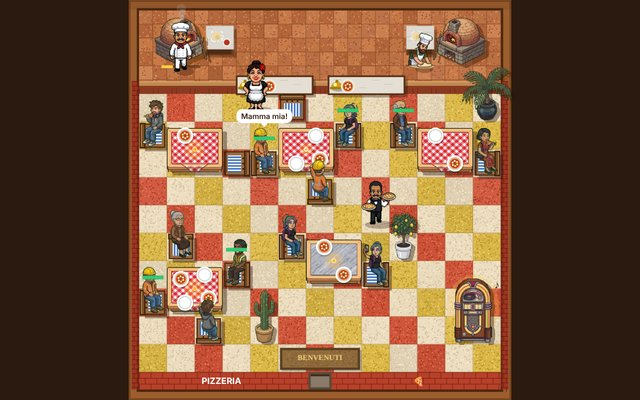
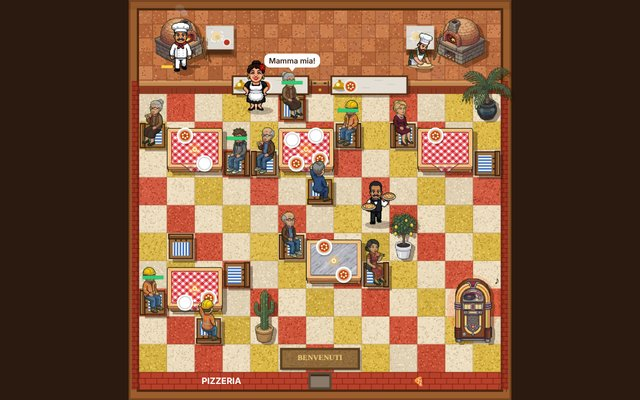
Pizzabaas: manager (Kevin, Sandra, Signor Bruno), met manager overdag de stad in
Claude-Session: https://claude.ai/code/session_01A1NZDKEqH4AvFTuhgNYDbP

diff --git a/pizzabaas.html b/pizzabaas.html
@@ -62,7 +62,7 @@
   .bedragen button.aan { background: #2e9d52; color: #fff; border-color: #2e9d52; }
   .teken { display: flex; gap: 8px; align-items: center; margin: 8px 0; font-size: 14px; }
   .teken input { width: 22px; height: 22px; }
-  #vraag { background: rgba(20,10,4,.45); }
+  #vraag { background: rgba(20,10,4,.45); z-index: 9; } /* ook boven de stad (de manager belt) */
   #vraagkaart { text-align: center; max-width: 400px; animation: plop .25s ease-out; }
   @keyframes plop { from { transform: scale(.7); opacity: 0; } }
   .vraagik { font-size: 54px; line-height: 1.1; }
@@ -437,6 +437,7 @@ let kies = null; // wat er gekocht en neergezet wordt
 function maakPersoneel() {
   obers = []; for (let i = 0; i < S.obers; i++) { const hx = W / 2 + [-1.6, 1.6, -2.6][i]; obers.push({ dame: i == 1, x: hx, y: KEUKEN + 0.5, thuis: [hx, KEUKEN + 0.5], taak: null, draagt: null }); } // niet voor het klapluik
   ovens = []; for (let i = 0; i < S.ovens; i++) ovens.push(maakOven(i));
+  maakManager();
 }
 // max. twee ovens, elk met een eigen kok: oven 0 links (Mario, de kok), oven 1 rechts (Beppe, de bebaarde bakker). De kok maakt het
 // deeg aan de werkbank naast zijn oven, schuift de pizza in de oven en zet hem als hij klaar is op het uitgiftepunt in het midden
@@ -574,20 +575,25 @@ function openDeuren() {
   const fd = feestdag(); vandaag.aankomst *= DRUKTE[weekdag()] * (fd ? fd.aankomst : 1); vandaag.kaars = fd && fd.kaars;
   if (laatsteVanDeMaand() && S.belasting > 0) vraagTijden.push(-1); // de inspecteur komt vandaag (een vraag met voorrang)
   setTimeout(() => meld(fd ? fd.tekst : ['Maandag: rustig dagje.', '', '', '', 'Vrijdagavond: het wordt druk!', 'Zaterdagavond: de drukste avond van de week!', 'Zondag: gezinnen en opa\'s en oma\'s.'][weekdag()] || ''), 300);
-  maakPersoneel(); kies = null; sluitMenu(); tekenKnoppen();
+  maakPersoneel(); kies = null; sluitMenu(); tekenKnoppen(); wegLog = [];
+  if (S.manager && MANAGER[S.manager.wie].fooi) vandaag.fooi *= MANAGER[S.manager.wie].fooi; // Bruno: de klanten zijn dol op hem
   ding(660, 0.12); setTimeout(() => ding(880, 0.12), 140);
 }
 function eindeDag() {
   modus = 'inrichten';
-  const lonen = (S.obers - 1) * LOON, totaal = tel.omzet + tel.fooi - tel.kosten - HUUR - lonen;
-  S.geld += -HUUR - lonen - (tel.ing || 0); maakPersoneel(); // omzet en fooi zijn al verrekend; de inkoop (tel.ing) nu pas
+  const manLoon = MANLOON(), lonen = (S.obers - 1) * LOON + manLoon, totaal = tel.omzet + tel.fooi - tel.kosten - HUUR - lonen;
+  S.geld += -HUUR - lonen - (tel.ing || 0);
+  let manWeg = ''; if (S.manager) { const M = MANAGER[S.manager.wie]; S.manager.dagen = (S.manager.dagen || 0) + 1;
+    if (S.geld < 0) { manWeg = `${M.n} is ontslag genomen: "Geen loon, geen ${M.n.split(' ').pop()}."`; S.manager = null; }
+    else if (S.manager.wie == 'bruno' && S.manager.dagen % 5 == 4) S.verplicht = [...(S.verplicht || []), 'opslag']; } // Bruno wil opslag
+  maakPersoneel(); // omzet en fooi zijn al verrekend; de inkoop (tel.ing) nu pas
   S.omzetGisteren = tel.omzet; const lening = [...aflossen(), ...belastingAvond(totaal)];
   const rommel = vlekken.length; S.vuil = (S.vuil || 0) + rommel * 0.5; vlekken = []; // wat er blijft liggen maakt de zaak viezer (keuringsdienst!)
   const top = Object.entries(tel.verkocht).sort((a, b) => b[1] - a[1])[0];
   const soorten = Object.entries(tel.soort).map(([k, [n, o]]) => `<span title="${esc(SOORT[k].n)}">${SOORT[k].ik}${GEZICHT[Math.round(o / n)]}</span>`).join(' ');
   const oud = S.dag; S.dag++; bewaar();
   $('eindkaart').innerHTML = `<h1>${datumLang(oud)} zit erop!</h1>
-    ${tel.dicht ? `<p><b>🔒 Vandaag was de zaak dicht.</b> ${esc(tel.dicht)}</p>` : ''}
+    ${tel.dicht ? `<p><b>🔒 Vandaag was de zaak dicht.</b> ${esc(tel.dicht)}</p>` : ''}${manWeg ? `<p><b>👋 ${esc(manWeg)}</b></p>` : ''}
     <table>
       <tr><td>😋 Tevreden klanten</td><td>${kl(tel.blij)}</td></tr>
       <tr><td>😡 Boos weggelopen</td><td>${kl(tel.boos)}</td></tr>
@@ -602,7 +608,7 @@ function eindeDag() {
       <tr><td>🪙 Fooi</td><td>€ ${Math.round(tel.fooi)}</td></tr>
       <tr><td>🧀 Ingrediënten (groothandel)</td><td>− € ${Math.round(tel.ing || 0)}</td></tr>${tel.kosten - (tel.ing || 0) >= 1 ? `<tr><td>🧾 Andere kosten</td><td>− € ${Math.round(tel.kosten - (tel.ing || 0))}</td></tr>` : ''}
       <tr><td>🏠 Huur</td><td>− € ${HUUR}</td></tr>
-      ${lonen ? `<tr><td>🤵 Loon extra obers</td><td>− € ${lonen}</td></tr>` : ''}
+      ${lonen - manLoon ? `<tr><td>🤵 Loon extra obers</td><td>− € ${lonen - manLoon}</td></tr>` : ''}${manLoon ? `<tr><td>📋 Loon manager</td><td>− € ${manLoon}</td></tr>` : ''}
       <tr><td><b>Verdiend vandaag</b></td><td>${totaal >= 0 ? '' : '− '}€ ${Math.abs(Math.round(totaal))}</td></tr>
       ${lening.map(([t, v]) => `<tr><td>${esc(t)}</td><td>${v ? '− € ' + -v : ''}</td></tr>`).join('')}
     </table>
@@ -862,6 +868,11 @@ const VRAGEN = [
     a: [['Die is van Beppe! Teruggeven.', () => { rep(1); return 'Beppe is zo blij dat hij de hele avond zingt.'; }],
       ['Mag u houden, als excuus.', () => { rep(1); if (ovens[1]) ovens[1].traag = true; return 'Beppe is zijn trouwring kwijt en werkt de rest van de avond verdrietig (trager).'; }],
       ['Gefeliciteerd, u wint onze prijsvraag!', () => { rep(2); return 'De klant juicht. Beppe kijkt bedenkelijk.'; }] ] },
+  { id: 'opslag', ik: '🎩', wie: 'Signor Bruno', als: () => false, // alleen via S.verplicht (eindeDag, elke 5 dagen)
+    vraag: () => `Signore, ik werk hier nu ${S.manager ? S.manager.dagen : 'al een paar'} dagen. De klanten houden van mij, de fooien stijgen… Een kleine opslag? Vijftien euro per dag.`,
+    a: [['Natuurlijk, Bruno. Je verdient het.', () => { if (S.manager) S.manager.opslag = (S.manager.opslag || 0) + 15; return 'Bruno kust je op beide wangen. "Grazie, signore!"'; }],
+      ['Nee, daar is geen geld voor.', () => { if (Math.random() < 0.4 && S.manager) { S.manager = null; man = null; return 'Bruno zet zijn hoed op. "Dan ga ik naar Luigi." Weg is hij. (Je hebt geen manager meer.)'; } return 'Bruno zucht diep. "Va bene. Voorlopig."'; }],
+      ['Hier, een fles van onze beste wijn.', () => { ge(-25); if (Math.random() < 0.6) return 'Bruno ruikt eraan. "Ah, een Barolo! Voor nu ben ik tevreden." (− € 25)'; S.manager.opslag = (S.manager.opslag || 0) + 15; return 'Bruno: "Wijn betaalt mijn huur niet." Hij krijgt de opslag toch. (− € 25, en € 15 per dag extra)'; }] ] },
   { id: 'gleufhoed', ik: '🎩', portret: 4, rij: 3, wie: 'Gerrit Gleufhoed', kans: 4, als: () => S.spullen.some((s) => s.t == 'schilderij') && !S.achterkamer,
     vraag: 'Hij staat al een tijdje naar je schilderij te kijken. "Wat een mooi schilderij… Wie is de schilder?"',
     a: [['Dat heeft mijn neefje gemaakt.', () => 'Hij knikt beleefd. "Talentvol neefje." Hij eet zijn pizza en vertrekt.'],
@@ -1119,14 +1130,15 @@ function toonStad(plek) {
   const k = $('stadkaart');
   if (!plek) {
     k.innerHTML = `<div id="kaartvak"><img src="pizza/stad-gemini.jpg" alt="De stad">${Object.entries(PLEK).map(([id, p]) => `<button class="plek" data-plek="${id}" title="${esc(p.n)}" style="left:${p.x / 13.76}%;top:${p.y / 7.68}%;width:${p.b / 13.76}%;height:${p.h / 7.68}%"><span>${p.ik} ${esc(p.n)}</span></button>`).join('')}</div>
+      ${modus != 'inrichten' && S.manager ? `<p class="buurt" style="text-align:center">🕒 De zaak is open. ${esc(MANAGER[S.manager.wie].n)} past op de winkel${S.manager.wie == 'kevin' ? '… hopelijk' : ''}.</p>` : ''}
       <p class="buurt" style="text-align:center">Tik op een plek in de stad. <button class="knop" id="stadterug" style="margin-left:8px">🍕 Terug naar je zaak</button></p>`;
     k.querySelectorAll('[data-plek]').forEach((b) => b.onclick = () => toonStad(b.dataset.plek));
-    $('stadterug').onclick = () => { $('stad').classList.add('verborgen'); aanBalie = false; tekenKnoppen(); };
+    $('stadterug').onclick = () => { $('stad').classList.add('verborgen'); aanBalie = false; tekenKnoppen(); toonWegLog(); };
     $('stad').classList.remove('verborgen'); return;
   }
   const p = PLEK[plek], terug = `<button class="knop" id="plekterug">🗺 Terug naar de kaart</button>`;
   let h = `<h1>${p.ik} ${esc(p.n)}</h1>`, knoppen = '';
-  if (plek == 'zaak') { $('stad').classList.add('verborgen'); tekenKnoppen(); return; }
+  if (plek == 'zaak') { $('stad').classList.add('verborgen'); tekenKnoppen(); toonWegLog(); return; }
   if (plek == 'bank') { h += `<p>Een deftige hal met marmer en een klok die heel hard tikt. Achter het loket zit meneer Fortuna. "Wie persoonlijk langskomt, krijgt van ons <b>1% minder rente</b>."</p>`; knoppen = `<button class="knop rood" id="balie">💰 Geld lenen aan het loket</button>`; }
   if (plek == 'markt') {
     const aanbod = marktAanbod(), heb = S.korting && S.korting.tot > S.dag ? S.korting : null;
@@ -1266,6 +1278,60 @@ function beweeg(o, doel, snel, dt) {
   const s = Math.min(d, snel * dt); o.x += dx / d * s; o.y += dy / d * s; o.loopT = (o.loopT || 0) + dt; o.kijk = Math.atan2(dy, dx); return false;
 }
 
+// ---------- de manager (vanaf populariteit 40, 3 pizza's en dag 7) ----------
+// Met een manager mag je ook overdag de stad in. Terwijl je weg bent (`isWeg`) regelt hij de gewone vragen (`managerVraag`); bezoekers
+// (agent, inspecteur, Luigi, Gerrit…) wachten tot je terug bent. Wat hij deed staat in `wegLog`, te zien als je terugkomt.
+// Plaatjes: pizza/managers.png (rij 0 Kevin, 1 Sandra, 2 Bruno; vakjes 150 x 192: 0-6 lopen opzij, 7-10 van achteren, 11 staan,
+// 12-16 houdingen: Kevin gaapt (12), appt (13), haalt zijn schouders op (14), klembord (15), belt (16); uit pizza/manager-*-gemini.jpg)
+const MANAGER = {
+  kevin: { n: 'Kevin', ik: '🧢', loon: 20, rij: 0, uitleg: 'Goedkoop. Geeft vaak een raar antwoord, gaapt, en belt je om onzin.', belt: 0.45, gok: true, poses: [12, 12, 13, 14, 16] },
+  sandra: { n: 'Sandra', ik: '📋', loon: 45, rij: 1, uitleg: 'Verstandig. Regelt vragen netjes en ruimt vlekken op.', belt: 0.12, poetst: true, poses: [12, 13, 14, 15] },
+  bruno: { n: 'Signor Bruno', ik: '🎩', loon: 90, rij: 2, uitleg: 'Alles van Sandra, en de klanten geven meer fooi. Wil wel eens opslag.', belt: 0.05, poetst: true, fooi: 1.12, poses: [12, 13, 14, 15, 16] } };
+const MAG_MANAGER = () => S.rep >= 40 && S.menu.length >= 3 && S.dag >= 7;
+const MANLOON = () => S.manager ? MANAGER[S.manager.wie].loon + (S.manager.opslag || 0) : 0;
+const MANVEL = Object.assign(new Image(), { src: 'pizza/managers.png' });
+let man = null, wegLog = []; // man = de manager in de zaak { x, y, kijk, loopT, plek, pose }
+const isWeg = () => modus != 'inrichten' && !$('stad').classList.contains('verborgen');
+function maakManager() { man = S.manager ? { x: DEUR.x + 2.5, y: H - 1.5, kijk: -Math.PI / 2, loopT: 0, rust: 0 } : null; }
+const ONZIN = ['Waar staan de servetten eigenlijk?', 'Mag de jukebox harder? Het is hier zo stil.', 'Er staat een man met een hond voor de deur. Is dat een klant?',
+  'Hoe zet je de oven uit? …Grapje! Of nee, echt: hoe?', 'Mag ik pauze? Ik ben al twintig minuten aan het werk.', 'Is ananas groente of fruit? Een klant vraagt het.',
+  'De wifi doet het niet. O wacht, verkeerde knop.', 'Moet ik die bonnetjes bewaren of mag ik er een vliegtuigje van vouwen?'];
+function stapManager(dt) {
+  if (!man || !S.manager) return; const M = MANAGER[S.manager.wie];
+  if (M.poetst && vlekken.length && Math.random() < dt * 0.12) { const v = vlekken.shift(); tel.opgeruimd = (tel.opgeruimd || 0) + 1; muntjes.push({ x: v.x, y: v.y, t: 1, tekst: '🧽 ' + M.n.split(' ').pop() }); }
+  if (M.gok && isWeg() && !pauze && Math.random() < dt * 0.02) { // Kevin belt je om onzin
+    toonVraag({ id: 'kevinbelt', ik: '📞', wie: '📞 Kevin belt', vraag: R(ONZIN), a: [['Kevin… doe gewoon je werk.', () => 'Kevin: "Oké oké. Doei."'], ['Vraag het aan Mario.', () => 'Kevin: "Mario zegt dat ik moet ophangen."']] }); }
+  man.rust += dt;
+  if (!man.plek || man.rust > man.plekT) {
+    man.plek = R([[DEUR.x + 2, H - 1.4], [LUIK_X + 3, KEUKEN + 0.6], [LUIK_X - 3.5, KEUKEN + 0.6]]); man.pose = 11;
+    for (let k = 0; k < 15 && Math.random() < 0.5; k++) { const x = Math.floor(Math.random() * W), y = KEUKEN + 1 + Math.floor(Math.random() * (H - KEUKEN - 2)); if (!op(x, y) && Math.abs(x + 0.5 - LUIK_X) > 0.6) { man.plek = [x + 0.5, y + 0.5]; break; } }
+    man.plekT = man.rust + 6 + Math.random() * 6; man.poseT = man.rust + 2 + Math.random() * 2;
+  }
+  if (loopNaar(man, man.plek, 1.6, dt) && man.rust > man.poseT) { man.pose = man.pose == 11 ? R(M.poses) : 11; man.poseT = man.rust + 2 + Math.random() * 3; }
+}
+function tekenManager() {
+  if (!man || !S.manager || !MANVEL.complete || !MANVEL.naturalWidth) return; const [x, y] = naarScherm(man.x, man.y);
+  g.save(); g.translate(x, y); g.scale(schaal, schaal);
+  figuur(MANVEL, man, false, false, null, { staan: man.loopT > 0 ? 11 : man.pose || 11, opzij: [0, 1, 2, 3, 4, 5, 6], rechts: true, rug: 7, rugLoop: [7, 8, 9, 10], fps: 10, sw: 150, rij: MANAGER[S.manager.wie].rij });
+  g.restore();
+}
+const vraagKort = (v) => { const t = typeof v.vraag == 'function' ? v.vraag() : v.vraag; return t.length > 90 ? t.slice(0, 88) + '…' : t; };
+function managerVraag(v) { // een gewone vraag terwijl jij de stad in bent
+  const M = MANAGER[S.manager.wie];
+  if (Math.random() < M.belt) { wegLog.push(`📞 ${M.n} belde je: ${v.wie}.`); toonVraag({ ...v, wie: `📞 ${M.n} belt: ${v.wie}` }); return; }
+  S.gehad = S.gehad || {}; S.gehad[v.id] = S.dag;
+  if (M.gok) { const [t, f] = R(v.a); const uit = f(); wegLog.push(`${M.ik} ${v.wie}: "${vraagKort(v)}" Kevin zei: "${t}" ${uit == 'UITLEG' ? '' : uit}`); }
+  else wegLog.push(`${M.ik} ${v.wie}: "${vraagKort(v)}" ${M.n} heeft het netjes geregeld.`);
+}
+function toonWegLog() { // terug uit de stad: wat gebeurde er?
+  if (modus == 'inrichten' || !S.manager) return; const M = MANAGER[S.manager.wie];
+  const k = $('vraagkaart'); pauze = true;
+  k.innerHTML = `<div class="vraagik">${M.ik}</div><div class="vraagwie">${esc(M.n)}</div><p class="vraagtekst">${wegLog.length ? 'Terwijl je weg was:' : (M.gok ? '"Niks gebeurd hoor. Denk ik."' : '"Alles rustig, baas."')}</p>
+    ${wegLog.map((t) => `<p class="buurt" style="text-align:left;margin:4px 0">${esc(t)}</p>`).join('')}<button class="groot" id="vraagverder" style="margin-top:8px">Verder</button>`;
+  $('vraagverder').onclick = () => { $('vraag').classList.add('verborgen'); pauze = false; };
+  $('vraag').classList.remove('verborgen'); wegLog = [];
+}
+
 // ---------- elke stap ----------
 function stap(dt) {
   if (modus == 'inrichten') return;
@@ -1275,6 +1341,8 @@ function stap(dt) {
     if (volgendeKlant <= 0) { nieuweGroep(); volgendeKlant = Math.max(2.2, 7.5 - S.rep * 0.05) * (0.6 + Math.random() * 0.8) / vandaag.aankomst; }
     const stel = (v) => v.portret != null ? laatBinnen(v) : toonVraag(v); // met een figuur: eerst binnenlopen
     if (bezoeker) {} // wacht tot de vorige bezoeker weg is
+    else if (isWeg() && S.manager) { // jij bent de stad in: de manager regelt de gewone vragen, de rest wacht tot je terug bent
+      if (vraagTijden.length && vraagTijden[0] >= 0 && klok >= vraagTijden[0]) { const v = kiesVraag(); if (v.portret != null) vraagTijden[0] = klok + 8; else { vraagTijden.shift(); managerVraag(v); } } }
     else if (S.verplicht && S.verplicht.length && klok > DAG * 0.25) { const id = S.verplicht.shift(); const v = VRAGEN.find((v) => v.id == id); if (v) stel(v); }
     else if (vraagTijden.includes(-1) && klok > DAG * 0.3) { vraagTijden = vraagTijden.filter((t) => t != -1); stel(INSPECTEUR); }
     else if (vraagTijden.length && vraagTijden[0] >= 0 && klok >= vraagTijden[0]) { vraagTijden.shift(); stel(kiesVraag()); }
@@ -1319,7 +1387,7 @@ function stap(dt) {
   }
   // ovens bakken wat er besteld is
   for (const o of ovens) stapOven(o, dt);
-  stapBezoeker(dt); stapRat(dt);
+  stapBezoeker(dt); stapRat(dt); stapManager(dt);
   if (!luikOpen) luikOpen = ovens.some((o) => Math.abs(o.kok.x - LUIK_X) < 0.6 && o.kok.y < KEUKEN + 1 && o.kok.y > KEUKEN - 1.2) ? 1 : 0; // ook de kok gaat door het luik
   if (vandaag.ovenUit > 0) vandaag.ovenUit -= dt;
   S.vuil = (S.vuil || 0) + mensen.filter((m) => m.st == 'eet').length * dt * 0.0006; // hoe meer er gegeten wordt, hoe viezer
@@ -1711,7 +1779,7 @@ function teken(nu) {
 
   // koks, mensen en obers (in schermpixels, gesorteerd op y)
   const koks = ovs.map((o) => ({ y: o.kok.y, f: () => kok(o.kok, nu) }));
-  const alles = [...koks, ...mensen.map((m) => ({ y: m.y, f: () => tekenMens(m, nu) })), ...obers.map((o) => ({ y: o.y, f: () => ober(o) })), ...(bezoeker ? [{ y: bezoeker.y, f: tekenBezoeker }] : [])].sort((a, b) => a.y - b.y);
+  const alles = [...koks, ...mensen.map((m) => ({ y: m.y, f: () => tekenMens(m, nu) })), ...obers.map((o) => ({ y: o.y, f: () => ober(o) })), ...(bezoeker ? [{ y: bezoeker.y, f: tekenBezoeker }] : []), ...(man ? [{ y: man.y, f: tekenManager }] : [])].sort((a, b) => a.y - b.y);
   for (const a of alles) a.f();
   // muntjes en tekstwolkjes
   g.textAlign = 'center';
@@ -2129,7 +2197,7 @@ function bewaarPizza() {
 // het knoppenraster in het paneel (3 x 3, zoals in het oude spel)
 function tekenKnoppen() {
   $('sleutel').classList.toggle('verborgen', !S.achterkamer);
-  $('stadknop').disabled = modus != 'inrichten'; // zonder manager alleen 's ochtends de deur uit
+  $('stadknop').disabled = modus != 'inrichten' && !S.manager; // zonder manager alleen 's ochtends de deur uit
   const k = $('raster'), open = modus != 'inrichten';
   let h = '';
   for (const [t0, d0] of Object.entries(SPUL)) {
@@ -2141,7 +2209,7 @@ function tekenKnoppen() {
   for (const [t, d] of Object.entries(PERSONEEL)) {
     const n = t == 'oven' ? S.ovens : S.obers, vol = n >= d.max, groot = t == 'oven' && vol && (S.groot || []).filter(Boolean).length < S.ovens; // daarna: ovens groot maken
     if (groot) h += `<button data-p="groot" class="${S.geld < GROTE_PRIJS ? 'duur' : ''}" ${open ? 'disabled' : ''}><span class="ik">🧱</span>Grote oven<span class="pr">€${GROTE_PRIJS}</span></button>`;
-    else if (t == 'ober') h += `<button data-p="ober" ${open ? 'disabled' : ''}><span class="ik">${d.ik}</span>Obers<span class="pr">${S.obers} in dienst</span></button>`;
+    else if (t == 'ober') h += `<button data-p="ober" ${open ? 'disabled' : ''}><span class="ik">${d.ik}</span>Personeel<span class="pr">${S.obers} ober${S.obers > 1 ? 's' : ''}${S.manager ? ' + ' + esc(MANAGER[S.manager.wie].n.split(' ').pop()) : ''}</span></button>`;
     else h += `<button data-p="${t}" class="${S.geld < d.prijs ? 'duur' : ''}" ${open || vol ? 'disabled' : ''}><span class="ik">${d.ik}</span>${t == 'oven' ? 'Oven + kok' : 'Ober'}<span class="pr">${vol ? 'maximaal' : '€' + d.prijs}</span></button>`;
   }
   h += `<button data-pizza><span class="ik">📖</span>Pizza's<span class="pr">${S.menu.length} op de kaart</span></button>`;
@@ -2166,11 +2234,15 @@ function tekenKnoppen() {
       S.groot = S.groot || []; const i = S.groot[0] ? 1 : 0; S.groot[i] = true; S.geld -= GROTE_PRIJS; kassa(); bewaar(); tekenKnoppen();
       meld(`De ${i ? 'rechter' : 'linker'} oven is nu een grote oven: er passen twee pizza's tegelijk in!`); return; }
     if (b.dataset.p == 'ober') { if ($('menu').style.display == 'block' && $('menu').dataset.knop == 'ober') { sluitMenu(); return; }
-      const d = PERSONEEL.ober; toonKeuze(`🤵 Obers: ${S.obers}`, [
+      const d = PERSONEEL.ober; toonKeuze(`🤵 Personeel: ${S.obers} ober${S.obers > 1 ? 's' : ''}${S.manager ? ', manager ' + MANAGER[S.manager.wie].n : ''}`, [
         { ik: '➕', n: 'Ober aannemen', pr: S.obers >= d.max ? 'maximaal ' + d.max : `€${d.prijs}, loon €${LOON} per dag`, uit: S.obers >= d.max || S.geld < d.prijs, doe: () => {
           S.geld -= d.prijs; S.obers++; maakPersoneel(); kassa(); bewaar(); tekenKnoppen(); meld('Een extra ober! Die kost wel ' + LOON + ' euro loon per dag.'); } },
         { ik: '👋', n: 'Ober ontslaan', pr: S.obers <= 1 ? 'je hebt er minstens één nodig' : 'scheelt €' + LOON + ' loon per dag', uit: S.obers <= 1, doe: () => {
-          S.obers--; maakPersoneel(); bewaar(); tekenKnoppen(); meld('De ober krijgt een fles wijn mee en een zoen op elke wang. Arrivederci!'); } } ],
+          S.obers--; maakPersoneel(); bewaar(); tekenKnoppen(); meld('De ober krijgt een fles wijn mee en een zoen op elke wang. Arrivederci!'); } },
+        ...(S.manager ? [{ ik: '👋', n: MANAGER[S.manager.wie].n + ' ontslaan', pr: `manager, €${MANLOON()} per dag, ${S.manager.dagen || 0} dagen in dienst`, doe: () => {
+          const n = MANAGER[S.manager.wie].n; S.manager = null; maakPersoneel(); bewaar(); tekenKnoppen(); meld(n + ' pakt zijn spullen. Je moet nu weer zelf op de zaak passen.', 4000); } }]
+        : Object.entries(MANAGER).map(([k, M]) => ({ ik: M.ik, n: 'Manager: ' + M.n, pr: MAG_MANAGER() ? `€${M.loon} per dag. ${M.uitleg}` : `pas vanaf populariteit 40, 3 pizza's op de kaart en dag 7`, uit: !MAG_MANAGER(), doe: () => {
+          S.manager = { wie: k, sinds: S.dag, dagen: 0, opslag: 0 }; maakPersoneel(); bewaar(); tekenKnoppen(); meld(`${M.n} is je manager! Nu kun je ook overdag de stad in (🗺); ${M.n.split(' ').pop()} past op de zaak.`, 5000); } }))) ],
         b.getBoundingClientRect(), 'ober'); return; }
     const d = PERSONEEL[b.dataset.p]; if (S.geld < d.prijs) { meld('Daar heb je niet genoeg geld voor.'); return; }
     S.geld -= d.prijs; if (b.dataset.p == 'oven') S.ovens++; else S.obers++; maakPersoneel(); kassa(); bewaar(); tekenKnoppen();
@@ -2183,7 +2255,7 @@ function tekenKnoppen() {
 }
 let laatsteDag = '';
 $('sleutel').onclick = () => { wekGeluid(); sluitMenu(); toonAchterkamer(); };
-$('stadknop').onclick = () => { wekGeluid(); sluitMenu(); if (modus != 'inrichten') { meld('Je kunt de zaak niet alleen laten! (Met een manager kan dat straks wel.)'); return; } toonStad(); };
+$('stadknop').onclick = () => { wekGeluid(); sluitMenu(); if (modus != 'inrichten' && !S.manager) { meld('Je kunt de zaak niet alleen laten! Neem een manager aan (Personeel).'); return; } toonStad(); };
 const isAanraak = matchMedia('(pointer: coarse)').matches;
 
 let meldT = 0;
@@ -2220,7 +2292,7 @@ function balk(nu) {
   const wacht = tel.wachtN ? Math.round(tel.wacht / tel.wachtN) : 0;
   const rij = (a, b) => a.padEnd(13, ' ') + String(b).padStart(5, ' ');
   $('lcd').innerHTML = `<span class="kop">${datumKort()}  ${modus == 'inrichten' ? 'INRICHTEN' : uur(f)}</span><span class="kop">PIZZERIA ${esc((speler || 'DE BAAS').toUpperCase().slice(0, 10))}</span>` +
-    [rij('POPULARITEIT', Math.round(S.rep)), rij('KOKS', S.ovens), rij('OBERS', S.obers), rij('TAFELS', S.spullen.filter(isTafel).length), rij('GEZELLIG', gemGezellig().toFixed(1)),
+    [rij('POPULARITEIT', Math.round(S.rep)), rij('KOKS', S.ovens), rij('OBERS', S.obers), rij('MANAGER', S.manager ? 'JA' : 'NEE'), rij('TAFELS', S.spullen.filter(isTafel).length), rij('GEZELLIG', gemGezellig().toFixed(1)),
      rij("PIZZA'S", kl(tel.blij)), rij('WACHTTIJD', wacht + ' s')].join('\n') + `<span class="geld">€ ${Math.floor(S.geld)}</span>`;
 }
 const uur = (f) => { const m = Math.floor(17 * 60 + f * 5 * 60); return String(Math.floor(m / 60)).padStart(2, '0') + ':' + String(m % 60).padStart(2, '0'); }; // van 17:00 tot 22:00
@@ -2258,7 +2330,7 @@ function lus(nu) {
   requestAnimationFrame(lus);
 }
 requestAnimationFrame(lus);
-window.__test = { get S() { return S; }, naarScherm, get dpr() { return doek.width / doek.getBoundingClientRect().width; }, stap, oordeel, smaak, toonKaart, toonMaak, get mensen() { return mensen; }, get tel() { return tel; }, openDeuren, get modus() { return modus; }, get kies() { return kies; }, VRAGEN, toonVraag, toonDrukken, get rat() { return rat; }, toonAchterkamer, toonAtelier, laatBinnen, get bezoeker() { return bezoeker; }, get vlekken() { return vlekken; }, nieuweVlek, get vandaag() { return vandaag; }, get pauze() { return pauze; }, get wachtrij() { return wachtrij; }, get obers() { return obers; }, get klaar() { return klaar; }, get ritten() { return ritten; }, get ovens() { return ovens; }, zoekPad, midden, isTafel };
+window.__test = { get S() { return S; }, get man() { return man; }, naarScherm, get dpr() { return doek.width / doek.getBoundingClientRect().width; }, stap, oordeel, smaak, toonKaart, toonMaak, get mensen() { return mensen; }, get tel() { return tel; }, openDeuren, get modus() { return modus; }, get kies() { return kies; }, VRAGEN, toonVraag, toonDrukken, get rat() { return rat; }, toonAchterkamer, toonAtelier, laatBinnen, get bezoeker() { return bezoeker; }, get vlekken() { return vlekken; }, nieuweVlek, get vandaag() { return vandaag; }, get pauze() { return pauze; }, get wachtrij() { return wachtrij; }, get obers() { return obers; }, get klaar() { return klaar; }, get ritten() { return ritten; }, get ovens() { return ovens; }, zoekPad, midden, isTafel };
 </script>
 </body>
 </html>

diff --git a/pizza/CLAUDE.md b/pizza/CLAUDE.md
@@ -108,3 +108,12 @@ Een leuke dame (`DAMES` = figuren 2, 4, 7, 8; 60% kans dat hij haar kiest) = 6-1
 inkopen, zwarte rook (`o.rook`), `tel.aangebrand` in het dagoverzicht, en de kok rent terug (`k.schrik`, `k.haast`).
 Zonder werk staan koks en obers niet steeds op dezelfde plek: de kok loopt wat rond in de keuken (`k.plek`), de ober staat de helft van de
 tijd ergens in de zaak (`oberRust`, `ob.plek`).
+Manager (`S.manager` = { wie, sinds, dagen, opslag }, `MANAGER`: kevin €20 / sandra €45 / bruno €90; aannemen via de knop Personeel (vroeger
+Obers) vanaf `MAG_MANAGER` = populariteit ≥ 40, ≥ 3 pizza's, dag ≥ 7; ontslaan kan daar ook). Loon `MANLOON` in `eindeDag` (geld daarna < 0 =
+de manager neemt ontslag). Figuur in de zaak: `man`, `stapManager`, `tekenManager`, plaatjes `pizza/managers.png` (rij 0 Kevin, 1 Sandra,
+2 Bruno; vakjes 150x192; indeling bij `MANAGER` in de code). Met een manager kan 🗺 ook tijdens het werk: dan loopt de dag door, en `isWeg()`.
+Gewone vragen regelt de manager (`managerVraag`): met kans `belt` belt hij je (de vraag komt in de stad, `#vraag` z-index 9), anders kiest Kevin
+een willekeurig antwoord (met gevolgen) en regelen Sandra/Bruno het zonder gevolgen. Vragen met een bezoeker (portret) wachten tot je terug
+bent. Kevin belt ook om onzin (`ONZIN`). Sandra en Bruno ruimen vlekken op. Bruno: fooi × 1,12, en elke 5 dagen vraag 'opslag' (via
+`S.verplicht`; nee = 40% kans dat hij vertrekt). Terug in de zaak: `toonWegLog` laat zien wat er gebeurde (`wegLog`). Dagen in dienst tellen
+mee voor de tweede pizzeria (≥ 7).

diff --git a/pizza/PLAN.md b/pizza/PLAN.md
@@ -156,7 +156,7 @@ Vellen klaar voor later (26 okt): managers `pizza/manager-kevin-gemini.jpg` (goe
   politiebureau, kunstuitleen, Luigi, panden te huur. Zonder manager alleen naar buiten tijdens het inrichten; met manager ook overdag.
 - Tweede pizzeria pas met een manager die ≥ 7 dagen bij je werkt en € 2000 (borg + verbouwing). Panden: klein in de studentenbuurt
   (goedkoop), aan het plein (toeristen), groot in de villawijk (duur, villabewoners).
-- Bouwvolgorde: 1 stad (bank, markt, politie) **gedaan 26 okt**, 2 manager, 3 overdag naar buiten, 4 tweede pizzeria.
+- Bouwvolgorde: 1 stad (bank, markt, politie) **gedaan 26 okt**, 2 manager en 3 overdag naar buiten **gedaan 27 okt** (Kevin, Sandra, Bruno; zie CLAUDE.md), 4 tweede pizzeria.
 
 ## Feedback Marcel op de iPhone (26 okt)
 - Gedaan: Tafel/Plant/Obers openen een keuzelijstje met prijzen (schilderij was niet te vinden); ober staat er al vanaf het begin
